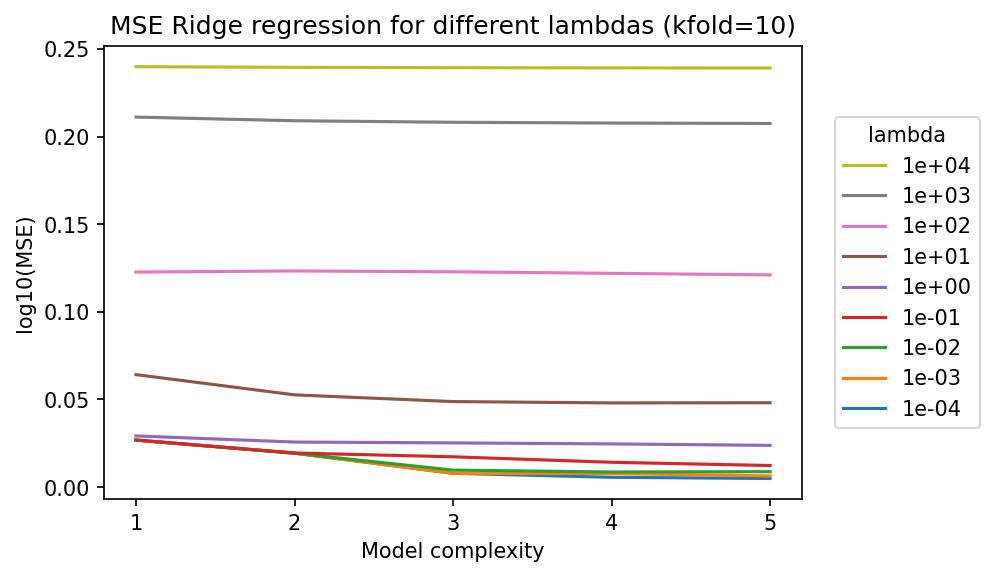
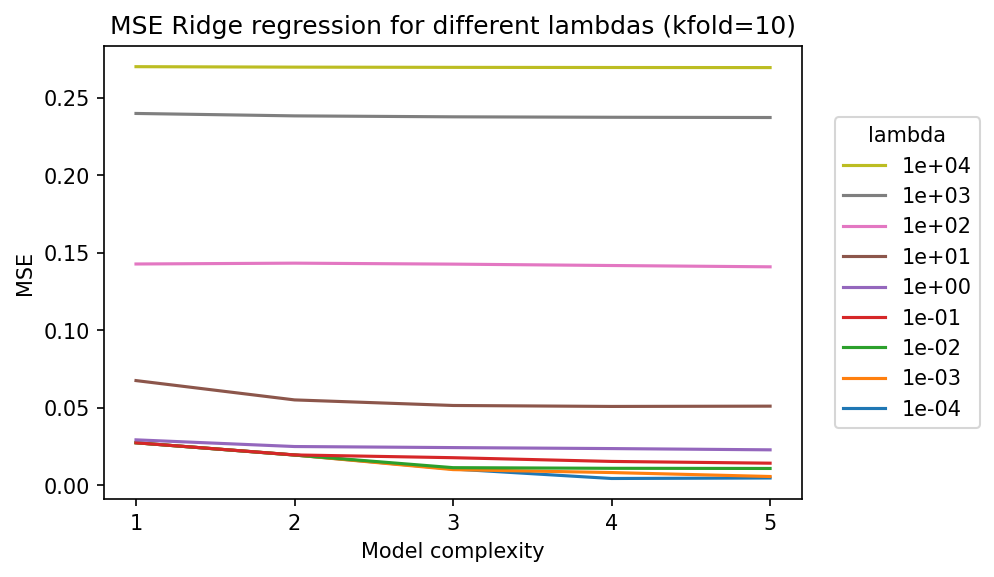
Updated

diff --git a/Project1/10_Terrain.py b/Project1/10_Terrain.py
@@ -1,0 +1,273 @@
+# -*- coding: utf-8 -*-
+"""
+Created on Sat Oct  1 20:54:30 2022
+
+@author: luis.barreiro
+"""
+
+#%%
+import matplotlib.pyplot as plt
+import numpy as np
+from sklearn.model_selection import train_test_split, KFold, cross_val_score
+#from sklearn.preprocessing import StandardScaler
+from Functions import FrankeFunction, R2, MSE, DesignMatrix, LinReg, RidgeReg, LassoReg, ScaleData
+from imageio import imread
+from mpl_toolkits.mplot3d import Axes3D
+from matplotlib import cm
+from numpy.random import normal, uniform
+from sklearn.preprocessing import StandardScaler, PolynomialFeatures
+from sklearn.linear_model import LinearRegression
+import seaborn as sb
+
+
+#%%
+# Load the terrain
+terrain = imread('data/SRTM_data_Norway_2.tif')
+
+# Show the terrain
+plt.figure()
+plt.title('Terrain over Norway')
+plt.imshow(terrain, cmap='viridis')
+plt.xlabel('X')
+plt.ylabel('Y')
+plt.savefig("plots/Terrain/Map_v01.png",dpi=150)
+plt.show()
+#%%
+n = 1000
+maxdegree = 5 # polynomial order
+terrain = terrain[:n,:n]
+# Creates mesh of image pixels
+x = np.linspace(0,1, np.shape(terrain)[0])
+y = np.linspace(0,1, np.shape(terrain)[1])
+x_mesh, y_mesh = np.meshgrid(x,y)
+
+x_mesh = np.ravel(x_mesh)
+y_mesh = np.ravel(y_mesh)
+
+z = terrain.ravel()
+
+# Show the terrain
+plt.figure()
+plt.title('Terrain over Norway')
+plt.imshow(terrain, cmap='viridis')
+plt.xlabel('X')
+plt.ylabel('Y')
+plt.savefig("plots/Terrain/Map_v02.png",dpi=150)
+plt.show()
+#%% Cross validation in OLS
+
+#Scale the data
+x = x.reshape(n,1)
+y = y.reshape(n,1)
+
+scaler = StandardScaler()
+
+scaler.fit(x)
+x_scaled = scaler.transform(x)
+
+scaler.fit(y)
+y_scaled = scaler.transform(y)
+
+z=terrain
+scaler.fit(z)
+z_scaled = scaler.transform(z)
+
+
+
+MSE_test = np.zeros(maxdegree)
+MSE_train = np.zeros(maxdegree)
+k=10
+
+# Decide degree on polynomial to fit
+poly = PolynomialFeatures(degree = 6)
+
+# Initialize a KFold instance
+k = 10
+kfold = KFold(n_splits = k)
+
+# Perform the cross-validation to estimate MSE
+scores_KFold_Train = np.zeros((maxdegree, k))
+scores_KFold_Test = np.zeros((maxdegree, k))
+
+#
+polydegree = np.zeros(maxdegree)
+
+i = 0
+for degree in range(maxdegree):
+    polydegree[degree] = degree+1
+    X = DesignMatrix(x_scaled,y_scaled,degree+1)
+    j = 0
+    for train_inds, test_inds in kfold.split(x):
+        X_train = X[train_inds]
+        z_train = z_scaled[train_inds]
+
+        X_test = X[test_inds]
+        z_test = z_scaled[test_inds]
+  
+        z_fit, z_pred, beta = LinReg(X_train, X_test, z_train)
+
+        scores_KFold_Train[i,j] = MSE(z_train, z_fit)
+        scores_KFold_Test[i,j] = MSE(z_test, z_pred)
+
+        j += 1
+    i += 1
+    
+estimated_mse_KFold_train = np.mean(scores_KFold_Train, axis = 1)
+estimated_mse_KFold_test = np.mean(scores_KFold_Test, axis = 1)
+
+
+plt.figure()
+plt.plot(polydegree, estimated_mse_KFold_train, label = 'KFold train')
+plt.plot(polydegree, estimated_mse_KFold_test, label = 'KFold test')
+plt.xlabel('Complexity')
+plt.ylabel('mse')
+plt.xticks(np.arange(1, 6, step=1))  # Set label locations.
+plt.legend()
+plt.title('K-fold Cross Validation, k = 5, OLS')
+#plt.savefig("plots/Terrain/CV_OLS.png",dpi=150)
+plt.show()
+
+
+#%%
+# CV in Ridge
+
+#set up the hyper-parameters to investigate
+nlambdas = 9
+lambdas = np.logspace(-1, 7, nlambdas)
+
+
+# Plot all in the same figure as subplots
+
+#Initialize before looping:
+polydegree = np.zeros(maxdegree)
+error_Kfold = np.zeros((maxdegree,k))
+estimated_mse_Kfold = np.zeros(maxdegree)
+bias = np.zeros(maxdegree)
+variance = np.zeros(maxdegree)
+
+E = np.zeros((maxdegree,9))
+
+# Create a matplotlib figure
+fig, ax = plt.subplots()
+
+for l in range(nlambdas):   
+    i=0
+    for degree in range(maxdegree): 
+        j=0
+        for train_inds, test_inds in kfold.split(x):
+            
+            X = DesignMatrix(x_scaled,y_scaled,degree+1)
+            
+            X_train = X[train_inds]
+            z_train = z_scaled[train_inds]   
+            X_test = X[test_inds]
+            z_test = z_scaled[test_inds]
+                 
+            z_fit, z_pred, Beta = RidgeReg(X_train, X_test, z_train, z_test,lambdas[l])
+            
+            error_Kfold[i,j] = MSE(z_test,z_pred)
+            
+            j+=1
+            
+        estimated_mse_Kfold[degree] = np.mean(error_Kfold[i,:])
+        polydegree[degree] = degree+1
+                
+        i+=1
+    
+    E[:,l] = estimated_mse_Kfold
+    ax.plot(polydegree, estimated_mse_Kfold, label='%.0e' %lambdas[l])
+
+plt.xlabel('Model complexity')    
+plt.xticks(np.arange(1, len(polydegree)+1, step=1))  # Set label locations.
+plt.ylabel('log10(MSE)')
+plt.title('MSE Ridge regression for different lambdas (kfold=10)')
+
+# Add a legend
+handles, labels = ax.get_legend_handles_labels()
+ax.legend(handles[::-1], labels[::-1], title='lambda', loc='center right', bbox_to_anchor=(1.27, 0.5))
+
+#Save figure
+plt.savefig("plots/Terrain/CV_Ridge.png",dpi=150, bbox_inches='tight')
+plt.show()
+
+#Create a heatmap with the error per nlambdas and polynomial degree
+heatmap = sb.heatmap(E,annot=True, annot_kws={"size":7}, cmap="coolwarm", xticklabels=lambdas, yticklabels=range(1,maxdegree+1), cbar_kws={'label': 'Mean squared error'})
+heatmap.invert_yaxis()
+heatmap.set_ylabel("Complexity")
+heatmap.set_xlabel("lambda")
+heatmap.set_title("MSE heatmap, Cross Validation, kfold = {:}".format(k))
+plt.tight_layout()
+plt.savefig("plots/Terrain/CV_Ridge_heatmap.png",dpi=150)
+plt.show()
+
+
+#%%
+#CV in Lasso
+
+#set up the hyper-parameters to investigate
+nlambdas = 9
+lambdas = np.logspace(-3, 5, nlambdas)
+
+#Initialize before looping:
+polydegree = np.zeros(maxdegree)
+error_Kfold = np.zeros((maxdegree,k))
+estimated_mse_Kfold = np.zeros(maxdegree)
+bias = np.zeros(maxdegree)
+variance = np.zeros(maxdegree)
+
+E = np.zeros((maxdegree,9))
+
+# Create a matplotlib figure
+fig, ax = plt.subplots()
+
+for l in range(nlambdas):   
+    i=0
+    for degree in range(maxdegree): 
+        j=0
+        for train_inds, test_inds in kfold.split(x):
+            
+            X = DesignMatrix(x_scaled,y_scaled,degree+1)
+            
+            X_train = X[train_inds]
+            z_train = z_scaled[train_inds]   
+            X_test = X[test_inds]
+            z_test = z_scaled[test_inds]
+            
+            z_fit, z_pred = LassoReg(X_train, X_test, z_train, z_test,lambdas[l])
+            
+            error_Kfold[i,j] = MSE(z_test,z_pred)
+            
+            j+=1
+            
+        estimated_mse_Kfold[degree] = np.mean(error_Kfold[i,:])
+        polydegree[degree] = degree+1
+                
+        i+=1
+
+    E[:,l] = estimated_mse_Kfold    
+    ax.plot(polydegree, estimated_mse_Kfold, label='%.0e' %lambdas[l])
+
+plt.xlabel('Model complexity')    
+plt.xticks(np.arange(1, len(polydegree)+1, step=1))  # Set label locations.
+plt.ylabel('MSE')
+plt.title('MSE Lasso regression for different lambdas (Kfold=10)')
+
+# Add a legend
+handles, labels = ax.get_legend_handles_labels()
+ax.legend(handles[::-1], labels[::-1], title='lambda', loc='center right', bbox_to_anchor=(1.27, 0.5))
+
+#Save figure
+plt.savefig("plots/Terrain/CV_Lasso.png",dpi=150, bbox_inches='tight')
+plt.show()
+
+#%%
+#Create a heatmap with the error per nlambdas and polynomial degree
+
+heatmap = sb.heatmap(E,annot=True, annot_kws={"size":7}, cmap="coolwarm", xticklabels=lambdas, yticklabels=range(1,maxdegree+1), cbar_kws={'label': 'Mean squared error'})
+heatmap.invert_yaxis()
+heatmap.set_ylabel("Complexity")
+heatmap.set_xlabel("lambda")
+heatmap.set_title("MSE heatmap, Cross Validation, kfold = {:}".format(k))
+plt.tight_layout()
+plt.savefig("plots/Terrain/CV_Lasso_heatmap.png",dpi=150)
+plt.show()

diff --git a/Project1/02_OLS_owncode.py b/Project1/02_OLS_owncode.py
@@ -8,7 +8,7 @@ import matplotlib.pyplot as plt
 import numpy as np
 from sklearn.model_selection import train_test_split
 #from sklearn.preprocessing import StandardScaler
-from Functions import FrankeFunction, R2, MSE, DesignMatrix, LinReg, Beta_std
+from Functions import FrankeFunction, R2, MSE, DesignMatrix, LinReg
 
 
 #%%
@@ -80,8 +80,6 @@ for degree in range(maxdegree):
     predictor=np.append(predictor,betas)
 
     #Accumulate standard deviation values for each Beta
-    Beta_err = Beta_std(var, X_train, betas, betas.shape[0])
-    predictor_std = np.append(predictor_std,Beta_err)
 
     polydegree[degree] = degree+1    
     TestError[degree] = MSE(z_test, z_pred)

diff --git a/Project1/07_Ridge_CrossValidation.py b/Project1/07_Ridge_CrossValidation.py
@@ -36,8 +36,6 @@ var = 0.01
 noise = np.random.normal(0,var,n)
 
 y = FrankeFunction(x1,x2) + noise 
-#Add normally distributed noise
-#y = y + np.random.normal(0,0.1,y.shape)
 
 x1 = np.array(x1).reshape(n,1)
 x2 = np.array(x2).reshape(n,1)
@@ -90,7 +88,7 @@ for l in range(nlambdas):
 
 plt.xlabel('Model complexity')    
 plt.xticks(np.arange(1, len(polydegree)+1, step=1))  # Set label locations.
-plt.ylabel('log10(MSE)')
+plt.ylabel('MSE')
 plt.title('MSE Ridge regression for different lambdas (kfold=10)')
 
 # Add a legend

diff --git a/Project1/Functions.py b/Project1/Functions.py
@@ -70,9 +70,3 @@ def LassoReg(X_train, X_test, y_train, y_test,lmb):
     ytildeTest = modelLasso.predict(X_test)
     return ytildeTrain, ytildeTest
 
-def Beta_std(var,X_train,Beta,p):
-    Beta_var = var*np.linalg.pinv(X_train.T @ X_train)
-    err = []
-    for p_ in range(p):
-        err = np.append(err,Beta_var[p_,p_] ** 0.5)
-    return err
